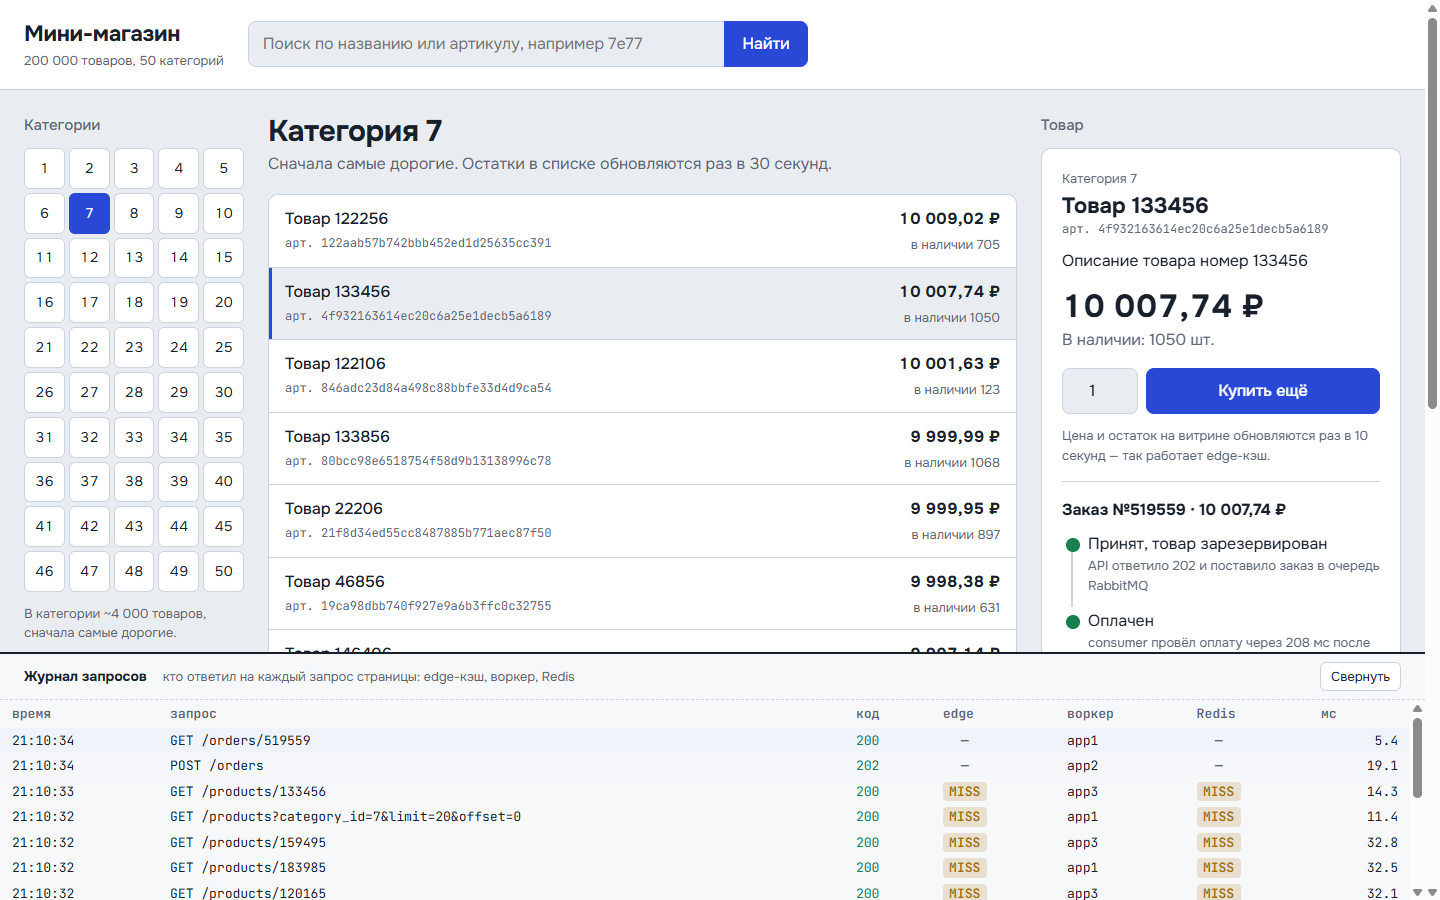
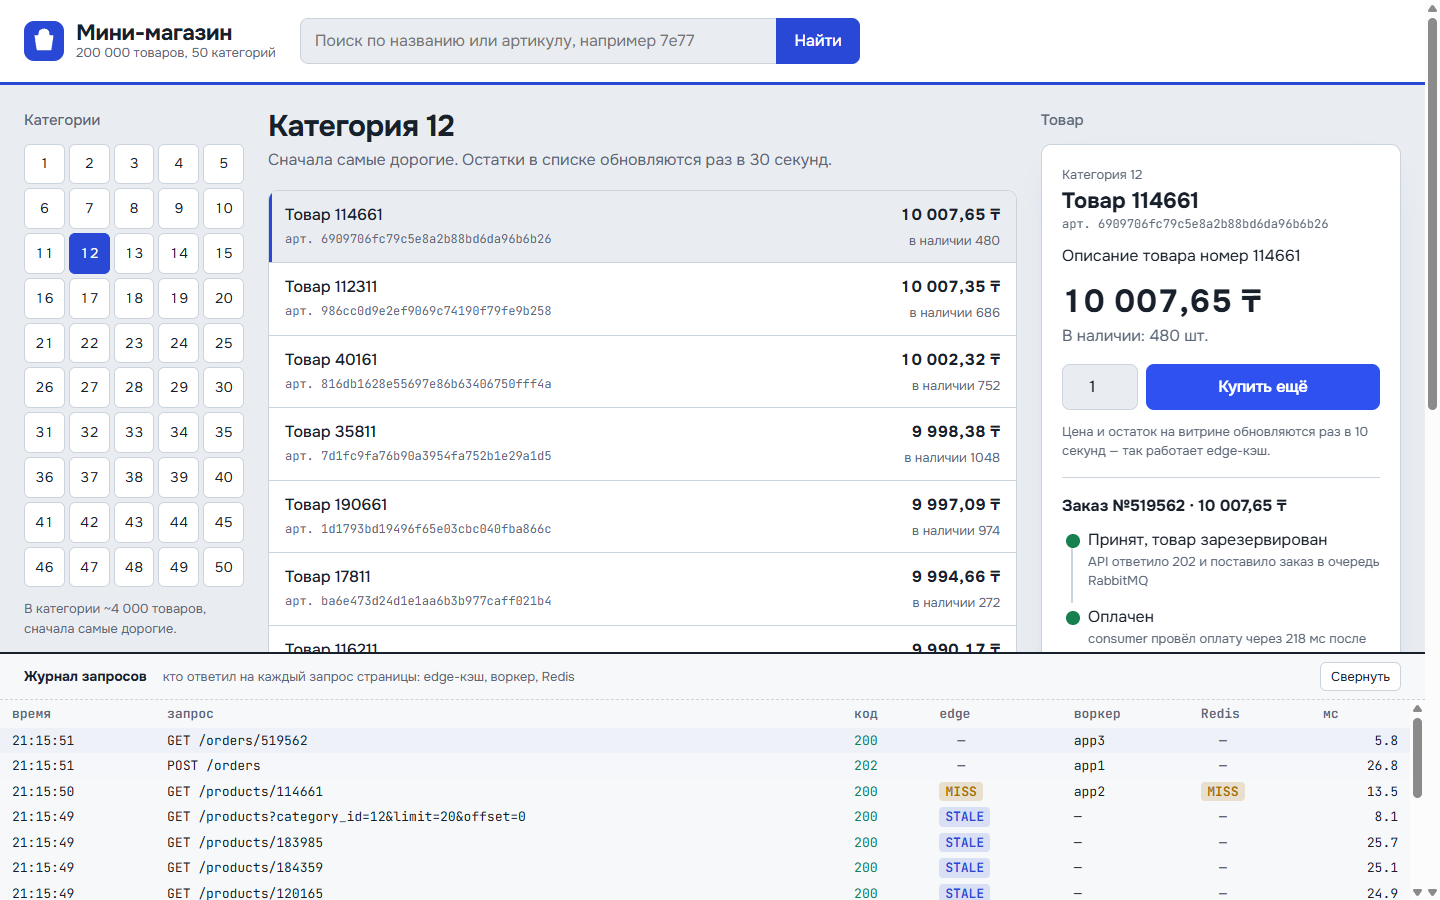
Витрина: цены в тенге, логотип, места в хитах, подсветка малого остатка

diff --git a/web/index.html b/web/index.html
@@ -61,7 +61,11 @@ button, input { font: inherit; color: inherit; }
   border-bottom: 1px solid var(--line);
   background: var(--surface);
 }
-.brand { font-weight: 700; font-size: 22px; letter-spacing: -0.01em; margin: 0; }
+.top { border-bottom: 3px solid var(--accent); }
+.brand { display: flex; align-items: center; gap: 12px; font-weight: 700; font-size: 22px; line-height: 1.15; letter-spacing: -0.01em; color: inherit; text-decoration: none; }
+.mark { width: 40px; height: 40px; flex: none; }
+.mark rect { fill: var(--accent); }
+.mark path { fill: var(--accent-ink); stroke: var(--accent-ink); }
 .brand small { display: block; font-weight: 400; font-size: 13px; color: var(--muted); letter-spacing: 0; }
 .search { display: flex; flex: 1 1 320px; max-width: 560px; }
 .search input {
@@ -100,7 +104,21 @@ button, input { font: inherit; color: inherit; }
   display: grid; grid-template-columns: minmax(0, 1fr) auto; gap: 4px 16px;
   width: 100%; padding: 12px 16px; border: 0; background: none; text-align: left; cursor: pointer;
 }
+.row { transition: background-color .12s; }
 .row:hover { background: var(--bg); }
+.row .meta.low { color: var(--wait); font-weight: 500; }
+/* Хиты недели — это рейтинг, поэтому у строк есть места */
+.rows.ranked { counter-reset: place; }
+.rows.ranked li { counter-increment: place; }
+.rows.ranked .row { position: relative; padding-left: 58px; }
+.rows.ranked .row::before {
+  content: counter(place); position: absolute; left: 16px; top: 10px; width: 28px;
+  font-size: 22px; font-weight: 700; color: var(--accent); text-align: center; font-variant-numeric: tabular-nums;
+}
+.cats button { transition: border-color .12s, background-color .12s; }
+.cats button:hover { background: color-mix(in srgb, var(--accent) 8%, var(--surface)); }
+.buy button:hover:not(:disabled), .search button:hover { filter: brightness(1.12); }
+.card { box-shadow: 0 1px 0 var(--line), 0 12px 32px -24px color-mix(in srgb, var(--accent) 60%, transparent); }
 .row[aria-current="true"] { box-shadow: inset 3px 0 0 var(--accent); background: var(--bg); }
 .row .name { font-weight: 500; }
 .row .art { grid-column: 1; font: 12px var(--mono); color: var(--muted); overflow: hidden; text-overflow: ellipsis; white-space: nowrap; }
@@ -163,6 +181,7 @@ body.log-collapsed { padding-bottom: 60px; }
 .tag { display: inline-block; min-width: 44px; padding: 0 6px; border-radius: 4px; font-weight: 600; text-align: center; }
 .tag.hit { background: color-mix(in srgb, var(--ok) 18%, transparent); color: var(--ok); }
 .tag.miss { background: color-mix(in srgb, var(--wait) 18%, transparent); color: var(--wait); }
+.tag.stale { background: color-mix(in srgb, var(--accent) 14%, transparent); color: var(--accent); }
 .tag.none { color: var(--muted); }
 .code-ok { color: var(--ok); }
 .code-bad { color: var(--err); }
@@ -191,7 +210,10 @@ body.log-collapsed { padding-bottom: 60px; }
 </head>
 <body>
 <header class="top">
-  <p class="brand">Мини-магазин<small>200 000 товаров, 50 категорий</small></p>
+  <a class="brand" href="/shop/">
+    <svg class="mark" viewBox="0 0 32 32" aria-hidden="true"><rect width="32" height="32" rx="8"/><path d="M9 12h14l-1.6 11H10.6z"/><path d="M12.5 12v-1.5a3.5 3.5 0 0 1 7 0V12" fill="none" stroke-width="2"/></svg>
+    <span>Мини-магазин<small>200 000 товаров, 50 категорий</small></span>
+  </a>
   <form class="search" id="search" role="search">
     <input id="q" name="q" aria-label="Поиск товаров" type="search" minlength="2" maxlength="50" placeholder="Поиск по названию или артикулу, например 7e77" autocomplete="off">
     <button type="submit">Найти</button>
@@ -239,7 +261,10 @@ body.log-collapsed { padding-bottom: 60px; }
 "use strict";
 const $ = (id) => document.getElementById(id);
 const esc = (s) => String(s).replace(/[&<>"']/g, (c) => ({ "&": "&amp;", "<": "&lt;", ">": "&gt;", '"': "&quot;", "'": "&#39;" }[c]));
-const rub = new Intl.NumberFormat("ru-RU", { style: "currency", currency: "RUB" });
+// Цены в базе — числа без валюты; на витрине показываем их в тенге
+// (Intl с currency: "KZT" в браузерах пишет буквы «KZT», поэтому знак ₸ ставим сами)
+const amount = new Intl.NumberFormat("ru-RU", { minimumFractionDigits: 2, maximumFractionDigits: 2 });
+const money = { format: (v) => `${amount.format(v)} ₸` };
 const PAGE = 20;
 
 // Название из БД: «Товар 166 7e7757b1…» → имя и артикул
@@ -269,7 +294,8 @@ async function api(path, options = {}) {
 
 function tag(value) {
   if (!value) return '<span class="tag none">—</span>';
-  const cls = value === "HIT" ? "hit" : value === "MISS" || value === "EXPIRED" ? "miss" : "none";
+  const cls = value === "HIT" ? "hit" : value === "MISS" || value === "EXPIRED" ? "miss"
+    : value === "STALE" || value === "UPDATING" ? "stale" : "none";
   return `<span class="tag ${cls}">${esc(value)}</span>`;
 }
 
@@ -308,14 +334,16 @@ const state = { mode: "top", category: null, offset: 0, query: "", selected: nul
 function rowHtml(p) {
   const { title, art } = splitName(p.name);
   const meta = p.sold != null ? `продано ${p.sold} шт.` : p.stock != null ? `в наличии ${p.stock}` : "";
-  const price = p.price != null ? rub.format(p.price) : "";
+  const low = p.sold == null && p.stock != null && p.stock < 150;
+  const price = p.price != null ? money.format(p.price) : "";
   return `<li><button class="row" data-id="${p.id}" aria-current="${p.id === state.selected}">
     <span class="name">${esc(title)}</span><span class="price">${price}</span>
-    <span class="art">арт. ${esc(art)}</span><span class="meta">${esc(meta)}</span></button></li>`;
+    <span class="art">арт. ${esc(art)}</span><span class="meta${low ? " low" : ""}">${esc(low ? `осталось ${p.stock}` : meta)}</span></button></li>`;
 }
 
 function render(items, append) {
   const rows = $("rows");
+  rows.classList.toggle("ranked", state.mode === "top");
   if (!append) rows.innerHTML = "";
   if (!items.length && !append) {
     rows.innerHTML = `<li class="empty">${state.mode === "search"
@@ -337,7 +365,7 @@ async function showTop() {
   const ids = [...document.querySelectorAll(".row")].map((b) => b.dataset.id);
   const cards = await Promise.all(ids.map((id) => api(`/products/${id}`).catch(() => null)));
   document.querySelectorAll(".row").forEach((b, i) => {
-    if (cards[i]) b.querySelector(".price").textContent = rub.format(cards[i].price);
+    if (cards[i]) b.querySelector(".price").textContent = money.format(cards[i].price);
   });
 }
 
@@ -417,7 +445,7 @@ async function showProduct(id, keepOrder = false) {
     <h3>${esc(title)}</h3>
     <p class="art">арт. ${esc(art)}</p>
     <p class="desc">${esc(p.description || "")}</p>
-    <p class="price">${rub.format(p.price)}</p>
+    <p class="price">${money.format(p.price)}</p>
     <p class="stock">В наличии: ${p.stock} шт.</p>
     <form class="buy" id="buy">
       <input id="qty" aria-label="Количество" type="number" min="1" max="100" value="1" required>
@@ -436,7 +464,7 @@ function orderHtml(o, error) {
   const paid = o.status === "processed";
   const took = paid ? Math.round(new Date(o.processed_at) - new Date(o.created_at)) : null;
   return `<div class="order">
-    <h4>Заказ №${o.id} · ${rub.format(o.total)}</h4>
+    <h4>Заказ №${o.id} · ${money.format(o.total)}</h4>
     <ol class="steps">
       <li class="done">Принят, товар зарезервирован<small>API ответило 202 и поставило заказ в очередь RabbitMQ</small></li>
       <li class="${paid ? "done" : "now"}">${paid ? "Оплачен" : "Ждёт оплаты"}<small>${paid
